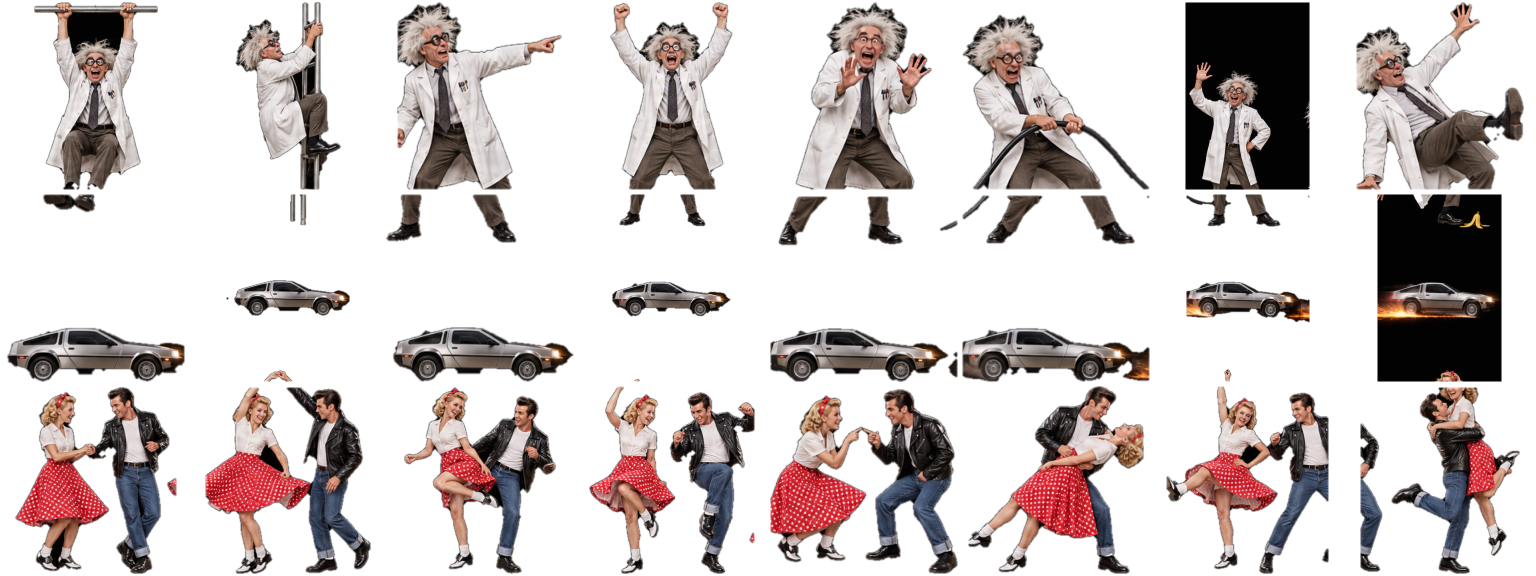
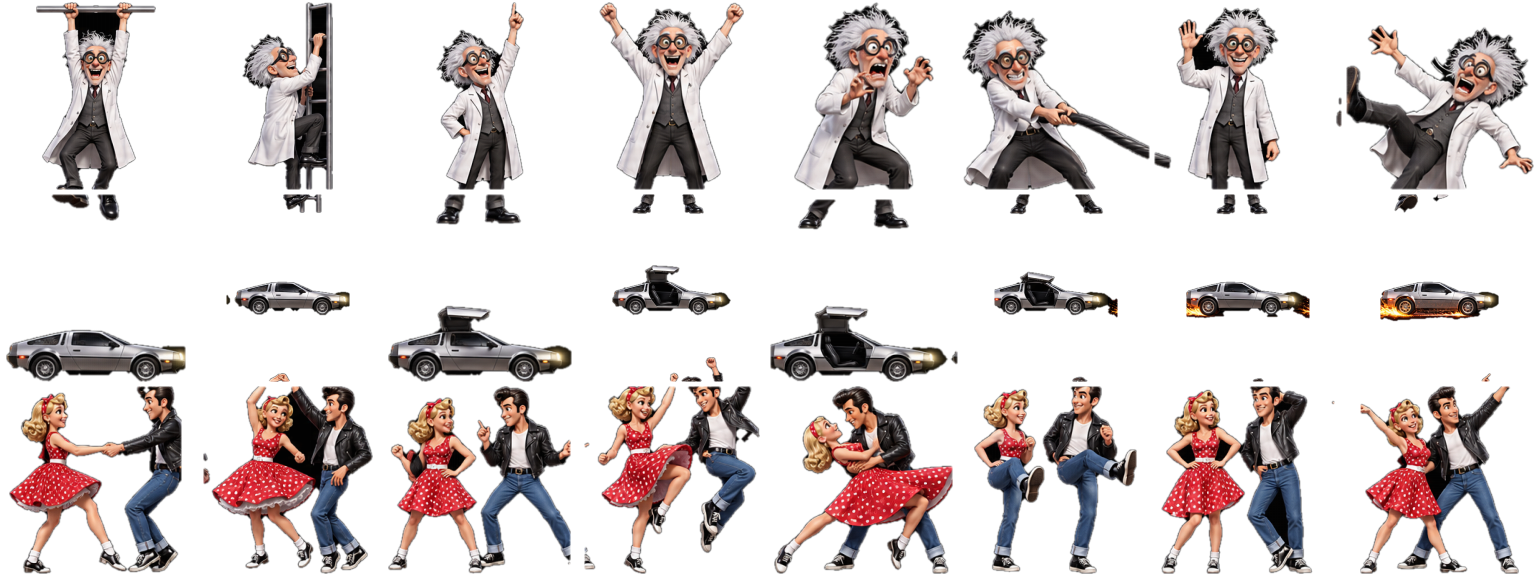
Zukunft-Thema: neue Figuren- und Cockpit-Bilder eingearbeitet
Figurenbogen mit gleich großen Zellen: Almanach liest Reihe 0 wieder
normal und nimmt für den Jackpot die Wagen mit Feuerspuren, Paradoxon
nutzt alle Fahrzellen. Neues Cockpit: Scheibenkante 0.45, Cockpit-Drop
0.08, Zeitkreis-Anzeigen und Tacho-Text an die neuen Positionen gesetzt,
Labels neben den Anzeigen entfallen.

Claude-Session: https://claude.ai/code/session_01HNz97UqFE2gGTPea68eVSn

diff --git a/visualizers/scenes/timejump.py b/visualizers/scenes/timejump.py
@@ -32,8 +32,11 @@ JUMP_SWAP = 1.5
 CIRCUIT_LEN = 1.2         # Anzeige rattert (s)
 HONK_LEN = 1.5
 MPH_JUMP = 88.0
-COCKPIT_DROP = 0.17       # Cockpitbild um diesen Anteil nach unten schieben (Armaturen kleiner, Scheibe größer)
-SHIELD_Y0 = 0.50          # Unterkante der Scheibe im Cockpitbild (Anteil von unten): darunter liegt das Armaturenbrett
+COCKPIT_DROP = 0.08
+CIRCUIT_X = 0.735         # Zeitkreis-Anzeigen im Cockpitbild: Mitte x und die drei Zeilen (y von unten)
+CIRCUIT_Y = (0.356, 0.247, 0.142)
+MPH_X, MPH_Y = 0.5, 0.035       # Tacho-Text unter dem Lenkrad       # Cockpitbild um diesen Anteil nach unten schieben (Armaturen kleiner, Scheibe größer)
+SHIELD_Y0 = 0.45          # Unterkante der Scheibe im Cockpitbild (Anteil von unten): darunter liegt das Armaturenbrett
 EVENT_EVERY = (30.0, 60.0)
 ERA_NAMES = ("1885", "1955", "1985", "2015")
 ERA_LABELS = ("WILDER WESTEN", "KLEINSTADT", "VORSTADT", "ZUKUNFT")
@@ -461,21 +464,19 @@ class Controller:
         # Zeitkreise in den drei Anzeigen des Cockpits (rechts): Ziel rot, Jetzt grün, Zuletzt gelb
         flick = 0.85 + 0.15 * np.sin(t * 37.0)
         d = self.drop
-        rows = ((self.era_next, 0.556 - d, (255, 70, 50)), (self.era, 0.472 - d, (70, 255, 110)), (self.era_prev, 0.388 - d, (255, 215, 60)))
+        rows = ((self.era_next, CIRCUIT_Y[0] - d, (255, 70, 50)), (self.era, CIRCUIT_Y[1] - d, (70, 255, 110)), (self.era_prev, CIRCUIT_Y[2] - d, (255, 215, 60)))
         for era, y, color in rows:
-            out.append((self._date(era, rattle), 0.025, 0.80, y, color, dim * flick))
-        for label, y, color in (("ZIELZEIT", 0.556 - d, (255, 70, 50)), ("JETZTZEIT", 0.472 - d, (70, 255, 110)), ("ZULETZT", 0.388 - d, (255, 215, 60))):
-            out.append((label, 0.011, 0.655, y, color, 0.8 * dim))
+            out.append((self._date(era, rattle), 0.025, CIRCUIT_X, y, color, dim * flick))
         if not self.driving:
             out.append(("Z E I T S P R U N G", 0.05, 0.5, 0.74, (255, 170, 60), 0.7 + 0.3 * np.sin(t * 2.0)))
             out.append(("STARTKNOPF = GAS GEBEN      KIPPSCHALTER = ANHALTEN      KNÜPPEL UNTEN = ZEITKREISE", 0.018, 0.5, 0.67, (160, 220, 255), 0.7))
             out.append((f"{ERA_NAMES[self.era]}  {ERA_LABELS[self.era]}", 0.022, 0.5, 0.60, (255, 220, 160), 0.6))
-            out.append(("0 MPH", 0.06, 0.5, 0.09, (255, 170, 60), 0.45))
+            out.append(("0 MPH", 0.05, MPH_X, MPH_Y, (255, 170, 60), 0.45))
         else:
             mph = int(self.mph)
             hot = self.mph >= MPH_JUMP - 0.5
             col = (200, 230, 255) if hot else (255, 170, 60)
-            out.append((f"{mph} MPH", 0.06, 0.5, 0.09, col, 0.9 if not hot else 0.6 + 0.4 * np.sin(t * 25.0)))
+            out.append((f"{mph} MPH", 0.05, MPH_X, MPH_Y, col, 0.9 if not hot else 0.6 + 0.4 * np.sin(t * 25.0)))
             secs = int(now - self.started_at)
             out.append((f"{ERA_NAMES[self.era]}  {ERA_LABELS[self.era]}     {secs // 60}:{secs % 60:02d}     SPUR {int(round(self.lane)) + 2}",
                         0.018, 0.5, 0.925, (160, 220, 255), 0.55))

diff --git a/visualizers/scenes/paradox.py b/visualizers/scenes/paradox.py
@@ -50,7 +50,7 @@ MONTHS = ["JAN", "FEB", "MÄR", "APR", "MAI", "JUN", "JUL", "AUG", "SEP", "OKT",
 DATE_LABELS = ("ZIELZEIT", "GEGENWART", "LETZTE ZEIT")
 DATE_COLORS = ((255, 70, 50), (70, 255, 90), (255, 215, 60))
 PROF_WAVE, PROF_CHEER, PROF_POINT = 6, 3, 2                                   # Reihe 0: Professor-Posen
-CAR_CELLS = (8, 10, 12, 13)                                                    # Reihe 1: Zeitmaschine fährt (gleich große Zellen)
+CAR_CELLS = (8, 9, 10, 11, 12, 13)                                             # Reihe 1: Zeitmaschine fährt
 CAR_FIRE = (14, 15)                                                            # ... mit Feuerspuren
 PHOTO_DEFAULT = (0.364, 0.204, 0.12)                                            # Polaroid: Mitte x, y (von unten), Breite
 HAND_DEFAULT = (0.80, 0.07, 0.11)                                               # durchsichtige Hand: x, y, Größe

diff --git a/CLAUDE.md b/CLAUDE.md
@@ -218,10 +218,10 @@ negativem Argument liefern NaN/weiße Blöcke, daher `sq()` statt pow und `exp(m
 ### Zeitsprung (`visualizers/scenes/timejump.py`, Taste 2)
 Wie Neonfahrt: ENTER = Gas (`uDriving`), `mph` folgt der Energie, bei `MPH_JUMP` 88 `jump()` (`uJumpT` 0..3 s, Weißblitz bei 1,5 s,
 `_swap_era()`), SPACE/BACKSPACE = anhalten, LINKS/RECHTS `uLane`, OBEN `uHonkT`, UNTEN `toggle_circuits` (`uCircuitT`). Cockpit
-`timejump_cockpit.png` (Alpha aus der schwarzen Scheibe, `_windshield_mask`, `SHIELD_Y0` 0.50; `cockpit_drop` schiebt das Bild
+`timejump_cockpit.png` (Alpha aus der schwarzen Scheibe, `_windshield_mask`, `SHIELD_Y0` 0.45; `cockpit_drop` schiebt das Bild
 nach unten, Shader bekommt `uShield` = Scheibenkante auf dem Schirm + Drop in .w), Epochen `uEra0..3Tex` (`uEraA/uEraB/uEraMix`),
 Verkehr `timejump_traffic.png` 8x4 à 192 (Reihe = Epoche) als `uMov0..9`/`uMovP0..9`. `EVENTS` je Epoche + Gewitter (`uEvent/
-uEventT/uEventLen`). Overlay Zeitkreise (rot/grün/gelb, Positionen minus Drop) und "NN MPH". `KITT_TIMEJUMP_ERA` = Startepoche.
+uEventT/uEventLen`). Overlay Zeitkreise (`CIRCUIT_X/CIRCUIT_Y` minus Drop, rot/grün/gelb) und "NN MPH" (`MPH_X/MPH_Y`). `KITT_TIMEJUMP_ERA` = Startepoche.
 Test: `python -m visualizers.engine timejump --test-signal --demo`.
 
 ### Fluxkompensator (`visualizers/scenes/flux.py`, Taste 3)
@@ -235,7 +235,7 @@ aus `uAudioTex`. Test: `python -m visualizers.engine flux --test-signal --demo`.
 Wie Orakel: Zeiger `uHands` (h, m, s in Umdrehungen; Sekunde tickt je Beat, `uClockT` 21:00 -> 22:04 mit Energie), Blitz
 `strike()` (`uStrikeT`, `uBoltSeed`, `uCableGlow`, danach 10 s Stillstand, Rücklauf), acht Schaufenster = Bänder (`uBands0/1`,
 `uPeaks0/1`), Lauflicht `uStep/uStepPhase/uPattern`, Wetterleuchten `uSheet`. Figuren `clocktower_figures.png` 8x3 à 192 (Reihe 0
-Professor, 1 Zeitmaschine, 2 Tanzpaar; Bogen ungleichmäßig, `_fit_cells()` misst je Zelle -> `uCarFit`, `uDocFitA/B`,
+Professor, 1 Zeitmaschine, 2 Tanzpaar; `_fit_cells()` misst je Zelle -> `uCarFit`, `uDocFitA/B`,
 `uDancerFitA/B`). LINKS `uDoc`, RECHTS `uCar`/`uCarPar`, OBEN beide (`uFig`), UNTEN Tanzball `uDance`/`uDancer`, ENTER Blitz,
 SPACE/BACKSPACE `uZoom`. `[scenes.clocktower] clock = [x, y, r]`, `windows = [x0, x7, y, w]`, `cable = [x0, y0, x1, y1]`.
 Test: `python -m visualizers.engine clocktower --test-signal --demo`.
@@ -243,8 +243,8 @@ Test: `python -m visualizers.engine clocktower --test-signal --demo`.
 ### Almanach (`visualizers/scenes/almanacslots.py`, Taste 5 / Slots)
 Erbt `slots.Controller` wie Pilzautomat/Pachinko. Thema `FUTURE` (`almanac_symbols.png` 3x3 à 384x256, letztes = 22:04 =
 Jackpot), `STAKES` CENT 1955 10/x1, DOLLAR 1985 50/x5, KARTE 2015 200/x20. Extra-Uniforms `uBoltT/uBoltSeed` (Drop-Blitz),
-`uSepia` (Schwarzweiß beim Jackpot), `uStake/uStakeT`, `uFig` (Professor/Tanzpaar aus `clocktower_figures.png`, Reihe 0 als
-192x256 gelesen), `uStep/uStepPhase/uStopT`. Dollarregen und Feuerspuren prozedural. `[scenes.almanacslots] windows`, `window_y`.
+`uSepia` (Schwarzweiß beim Jackpot), `uStake/uStakeT`, `uFig` (Professor/Tanzpaar aus `clocktower_figures.png`, Jackpot-Wagen
+Zellen 14/15), `uStep/uStepPhase/uStopT`. Dollarregen und Feuerspuren prozedural. `[scenes.almanacslots] windows`, `window_y`.
 Test: `python -m visualizers.engine almanacslots --test-signal`.
 
 ### Marktplatz (`visualizers/scenes/square.py`, Taste 6 / Lagerfeuer)

diff --git a/README.md b/README.md
@@ -772,7 +772,7 @@ Hauch Werkstatt-Hall, Sätze in `config/announce.toml` `[themes.future]`). Roter
 
 **Zeitsprung (Taste 2 im Thema ZURÜCK IN DIE ZUKUNFT, `timejump`):** Das Gegenstück zum Navigationscomputer. Blick aus
 dem Cockpit der Zeitmaschine (`assets/future/timejump_cockpit.png`, die Scheibe ist im Bild schwarz und zeigt die
-Epochenstraße dahinter; `cockpit_drop` schiebt die Armaturen nach unten). Startknopf = Gas geben, der Tacho folgt der
+Epochenstraße dahinter; `cockpit_drop` schiebt die Armaturen etwas nach unten). Startknopf = Gas geben, der Tacho folgt der
 Energie der Musik, laute Musik hält den Schub, Stille lässt ausrollen. Bei 88 zündet der Zeitsprung: Blaulicht um die
 Scheibe, zwei Feuerspuren zum Fluchtpunkt, Weißblitz, und die Straße ist in einer anderen Epoche (`timejump_1885|1955|
 1985|2015.png`, nie zweimal dieselbe). Kippschalter = anhalten (egal welche Richtung). Knüppel links/rechts = Spur,
